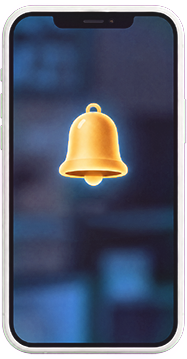
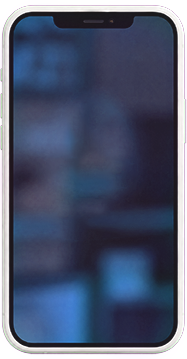
v0.4.3 修铃铛位置,有新消息时底图换成亮屏那张
铃铛图是画在和手机同一张画布上、位置已经摆好的,
之前用 left/top/width 又挪了一次,结果歪掉。改成整张对齐叠上去,
旋转轴心对准挂钩点。

Changed region(s): [[0.2941, 0.2758, 0.7219, 0.5515]]

diff --git a/style.css b/style.css
@@ -138,26 +138,31 @@
     background-color: #0b0b0e;
 }
 
-/* 有新消息:铃铛叠在手机上,一阵一阵地摇。
-   **不要红点也不要辉光**,常驻元素上那两样都太吵(2026-08-18 道长)。
+/* 有新消息:底图换成亮屏那张,再把铃铛整张叠上去摇。
+   **铃铛图是画在和手机同一张 187x359 画布上的、位置已经摆好了**,
+   所以这里只能整张对齐叠上去,一旦用 left/top/width 去挪它就会歪(2026-08-18 栽过一次)。
+   旋转轴心对准铃铛的挂钩点(横向正中、纵向 29%),摇起来才像挂着晃。
+
+   **不要红点也不要辉光**,常驻元素上那两样都太吵(道长)。
    摇一下停两秒,读起来是"来消息了";一闪一闪几分钟就开始烦人。
    想换成闪的话把下面这段 keyframes 换掉就行,别处不用动。 */
 #zos_ball_bell {
     position: absolute;
-    left: 18%;
-    top: 26%;
-    width: 64%;
-    transform-origin: 50% 12%;
+    inset: 0;
+    width: 100%;
+    height: 100%;
+    object-fit: contain;
+    transform-origin: 50% 29%;
     pointer-events: none;
     animation: zos_shake 2.6s ease-in-out infinite;
 }
 
 @keyframes zos_shake {
     0%, 62%, 100% { transform: rotate(0deg); }
-    66% { transform: rotate(-14deg); }
-    70% { transform: rotate(11deg); }
-    74% { transform: rotate(-8deg); }
-    78% { transform: rotate(6deg); }
+    66% { transform: rotate(-13deg); }
+    70% { transform: rotate(10deg); }
+    74% { transform: rotate(-7deg); }
+    78% { transform: rotate(5deg); }
     82% { transform: rotate(-3deg); }
     86% { transform: rotate(1deg); }
 }

diff --git a/index.js b/index.js
@@ -18,7 +18,7 @@ import { writeSecret, SECRET_KEYS } from '../../../secrets.js';
 import { uuidv4 } from '../../../utils.js';
 
 /** 跟 manifest.json 的 version 手动保持一致,靠这行在控制台辨认在跑哪一版 */
-const VERSION = '0.4.2';
+const VERSION = '0.4.3';
 
 /** 必须和仓库名、文件夹名一致,理由见织梦者里那段注释 */
 const MODULE_NAME = 'zhimengos';
@@ -589,8 +589,8 @@ function setBallUnread(unread) {
     unreadNow = Boolean(unread);
 
     if (bellReady) {
-        // 铃铛在的话,底图一直是那台黑屏手机,只是上面多个铃铛
-        img.src = BALL_IMAGE_IDLE;
+        // 有新消息:底图换成亮屏那张,铃铛叠上去摇(2026-08-18 道长:"phone new 加铃铛")
+        img.src = unreadNow ? BALL_IMAGE_NEW : BALL_IMAGE_IDLE;
         $('#zos_ball_bell').toggleClass('zos_hidden', !unreadNow);
         return;
     }
